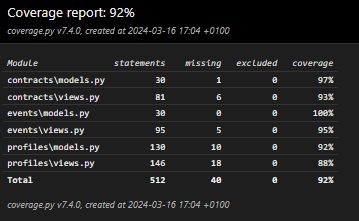
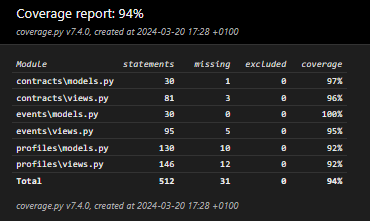
Mise à jour  Changes to be committed: 	modified:   .flake8 	modified:   README.md 	modified:   contracts/tests.py 	modified:   static/badges/coverage-badge.svg 	modified:   static/badges/tests-badge.svg 	modified:   static/img/coverage_screen.png

diff --git a/contracts/tests.py b/contracts/tests.py
@@ -294,6 +294,21 @@ class TestContractViewSet(TestCase):
         Client.objects.all().delete()
         Contract.objects.all().delete()
 
+    def test_returns_all_contracts_associated_to_user(self):
+        url = '/crm/contracts/contracts_list/'
+        response = self.client.get(url, HTTP_AUTHORIZATION=f'Bearer {self.access_token_sales_user1}')
+
+        # Vérifie si la réponse est 200 (OK)
+        self.assertEqual(response.status_code, status.HTTP_200_OK)
+
+        # Vérifie si la réponse contient les détails des contrats associés à l'utilisateur connecté
+        self.assertEqual(len(response.data), 3)
+        self.assertEqual(str(response.data[0]['total_amount']), str(self.contract_user1.total_amount))
+        self.assertEqual(str(response.data[1]['total_amount']), str(self.contract_user2.total_amount))
+        self.assertEqual(str(response.data[2]['total_amount']), str(self.contract_user3.total_amount))
+
+        print("Response Data:", response.data)
+
     def test_contracts_list(self):
         # Test de la vue contract_list
         url = '/crm/contracts/'

diff --git a/README.md b/README.md
@@ -302,8 +302,8 @@ $ SHOW COLUMNS FROM NomDeLaTable;
 ```bash   
 $ SELECT * FROM NomDeLaTable;
 
-#Cette requête est utilisée pour afficher la déclaration SQL complète nécessaire pour recréer une table existante, y compris tous ses indices, contraintes et autres propriétés.
-#Cette requête retourne un ensemble de résultats avec une colonne appelée "Create Table" qui contient la déclaration SQL complète de la table spécifiée.
+# Cette requête est utilisée pour afficher la déclaration SQL complète nécessaire pour recréer une table existante, y compris tous ses indices, contraintes et autres propriétés.
+# Cette requête retourne un ensemble de résultats avec une colonne appelée "Create Table" qui contient la déclaration SQL complète de la table spécifiée.
 $ SHOW CREATE TABLE NomDeLaTable;
 ```   
 
@@ -505,11 +505,11 @@ $ pytest
 ======================================= test session starts =======================================
 platform win32 -- Python 3.12.0, pytest-7.4.3, pluggy-1.3.0 -- C:\Epic Events\env\Scripts\python.exe
 cachedir: .pytest_cache
-django: version: 4.2.7, settings: EpicEvents.settings (from ini)  
+django: version: 4.2.7, settings: EpicEvents.settings (from ini)
 rootdir: C:\Epic Events
 configfile: setup.cfg
 plugins: cov-4.1.0, django-4.7.0, time-machine-2.13.0
-collected 67 items
+collected 70 items
 
 contracts/tests.py::TestContractsApp::test_contract_print_details PASSED                       [1%]
 contracts/tests.py::TestContractsApp::test_contract_str_representation PASSED                  [2%]
@@ -519,18 +519,19 @@ contracts/tests.py::TestContractViewSet::test_contract_details PASSED           
 contracts/tests.py::TestContractViewSet::test_contract_details_unauthorized_user PASSED        [8%]
 contracts/tests.py::TestContractViewSet::test_contracts_list PASSED                           [10%]
 contracts/tests.py::TestContractViewSet::test_create_contract PASSED                          [11%]
-contracts/tests.py::TestContractViewSet::test_create_contract_unauthorized_user PASSED        [13%]
+contracts/tests.py::TestContractViewSet::test_create_contract_unauthorized_user PASSED        [12%]
 contracts/tests.py::TestContractViewSet::test_destroy_contract PASSED                         [14%]
-contracts/tests.py::TestContractViewSet::test_destroy_contract_unauthorized_user PASSED       [16%]
+contracts/tests.py::TestContractViewSet::test_destroy_contract_unauthorized_user PASSED       [15%]
 contracts/tests.py::TestContractViewSet::test_filtered_contracts PASSED                       [17%]
-contracts/tests.py::TestContractViewSet::test_update_contract PASSED                          [19%]
-contracts/tests.py::TestContractViewSet::test_update_contract_unauthorized_user PASSED        [20%]
+contracts/tests.py::TestContractViewSet::test_returns_all_contracts_associated_to_user PASSED [18%]
+contracts/tests.py::TestContractViewSet::test_update_contract PASSED                          [20%]
+contracts/tests.py::TestContractViewSet::test_update_contract_unauthorized_user PASSED        [21%]
 events/tests.py::TestEventsApp::test_event_print_details PASSED                               [22%]
-events/tests.py::TestEventsApp::test_event_str_representation PASSED                          [23%]
+events/tests.py::TestEventsApp::test_event_str_representation PASSED                          [24%]
 events/tests.py::TestEventsApp::test_save_method PASSED                                       [25%]
-events/tests.py::TestEventViewSet::test_all_events_details PASSED                             [26%]
+events/tests.py::TestEventViewSet::test_all_events_details PASSED                             [27%]
 events/tests.py::TestEventViewSet::test_create_event PASSED                                   [28%]
-events/tests.py::TestEventViewSet::test_create_event_already_exists PASSED                    [29%]
+events/tests.py::TestEventViewSet::test_create_event_already_exists PASSED                    [30%]
 events/tests.py::TestEventViewSet::test_create_event_contract_not_signed PASSED               [31%]
 events/tests.py::TestEventViewSet::test_create_event_unauthorized_user PASSED                 [32%]
 events/tests.py::TestEventViewSet::test_destroy_event PASSED                                  [34%]
@@ -539,47 +540,49 @@ events/tests.py::TestEventViewSet::test_event_details PASSED                    
 events/tests.py::TestEventViewSet::test_event_details_unauthorized_user PASSED                [38%]
 events/tests.py::TestEventViewSet::test_events_list PASSED                                    [40%]
 events/tests.py::TestEventViewSet::test_events_without_support PASSED                         [41%]
-events/tests.py::TestEventViewSet::test_update_event PASSED                                   [43%]
+events/tests.py::TestEventViewSet::test_update_event PASSED                                   [42%]
 events/tests.py::TestEventViewSet::test_update_event_unauthorized_user PASSED                 [44%]
-profiles/tests.py::TestProfilesApp::test_add_client_to_group PASSED                           [46%]
+profiles/tests.py::TestProfilesApp::test_add_client_to_group PASSED                           [45%]
 profiles/tests.py::TestProfilesApp::test_assign_sales_contact PASSED                          [47%]
-profiles/tests.py::TestProfilesApp::test_create_client1 PASSED                                [49%]
+profiles/tests.py::TestProfilesApp::test_create_client1 PASSED                                [48%]
 profiles/tests.py::TestProfilesApp::test_create_client2 PASSED                                [50%]
-profiles/tests.py::TestProfilesApp::test_create_superuser PASSED                              [52%]
-profiles/tests.py::TestProfilesApp::test_create_superuser_invalid_attributes PASSED           [53%]
-profiles/tests.py::TestProfilesApp::test_create_user_management PASSED                        [55%]
-profiles/tests.py::TestProfilesApp::test_create_user_sales PASSED                             [56%]
-profiles/tests.py::TestProfilesApp::test_create_user_support PASSED                           [58%]
-profiles/tests.py::TestProfilesApp::test_create_user_with_empty_email PASSED                  [59%]
-profiles/tests.py::TestProfilesApp::test_has_module_perms PASSED                              [61%]
-profiles/tests.py::TestProfilesApp::test_has_perm PASSED                                      [62%]
-profiles/tests.py::TestProfilesApp::test_obtain_jwt_token_url PASSED                          [64%]
-profiles/tests.py::TestProfilesApp::test_refresh_jwt_token_url PASSED                         [65%]
-profiles/tests.py::TestProfilesApp::test_str_method_with_sales_contact PASSED                 [67%]
-profiles/tests.py::TestLoginViewSet::test_user_login_inactive_account PASSED                  [68%]
-profiles/tests.py::TestLoginViewSet::test_user_login_invalid_credentials PASSED               [70%]
-profiles/tests.py::TestLoginViewSet::test_user_login_successful PASSED                        [71%]
-profiles/tests.py::TestClientViewSet::test_all_clients_details PASSED                         [73%]
-profiles/tests.py::TestClientViewSet::test_client_details PASSED                              [74%]
-profiles/tests.py::TestClientViewSet::test_client_details_unauthorized_user PASSED            [76%]
-profiles/tests.py::TestClientViewSet::test_clients_list PASSED                                [77%]
-profiles/tests.py::TestClientViewSet::test_create_client PASSED                               [79%]
+profiles/tests.py::TestProfilesApp::test_create_superuser PASSED                              [51%]
+profiles/tests.py::TestProfilesApp::test_create_superuser_invalid_attributes PASSED           [52%]
+profiles/tests.py::TestProfilesApp::test_create_user_management PASSED                        [54%]
+profiles/tests.py::TestProfilesApp::test_create_user_sales PASSED                             [55%]
+profiles/tests.py::TestProfilesApp::test_create_user_support PASSED                           [57%]
+profiles/tests.py::TestProfilesApp::test_create_user_with_empty_email PASSED                  [58%]
+profiles/tests.py::TestProfilesApp::test_has_module_perms PASSED                              [60%]
+profiles/tests.py::TestProfilesApp::test_has_perm PASSED                                      [61%]
+profiles/tests.py::TestProfilesApp::test_obtain_jwt_token_url PASSED                          [62%]
+profiles/tests.py::TestProfilesApp::test_refresh_jwt_token_url PASSED                         [64%]
+profiles/tests.py::TestProfilesApp::test_str_method_with_sales_contact PASSED                 [65%]
+profiles/tests.py::TestLoginViewSet::test_user_login_inactive_account PASSED                  [67%]
+profiles/tests.py::TestLoginViewSet::test_user_login_invalid_credentials PASSED               [68%]
+profiles/tests.py::TestLoginViewSet::test_user_login_successful PASSED                        [70%]
+profiles/tests.py::TestClientViewSet::test_all_clients_details PASSED                         [71%]
+profiles/tests.py::TestClientViewSet::test_client_details PASSED                              [72%]
+profiles/tests.py::TestClientViewSet::test_client_details_unauthorized_user PASSED            [74%]
+profiles/tests.py::TestClientViewSet::test_clients_list PASSED                                [75%]
+profiles/tests.py::TestClientViewSet::test_clients_list_associated_to_user PASSED             [77%]
+profiles/tests.py::TestClientViewSet::test_create_client PASSED                               [78%]
 profiles/tests.py::TestClientViewSet::test_create_clients_unauthorized_user PASSED            [80%]
-profiles/tests.py::TestClientViewSet::test_destroy_client PASSED                              [82%]
-profiles/tests.py::TestClientViewSet::test_destroy_client_unauthorized_user PASSED            [83%]
-profiles/tests.py::TestClientViewSet::test_update_client PASSED                               [85%]
-profiles/tests.py::TestClientViewSet::test_update_client_unauthorized_user PASSED             [86%]
-profiles/tests.py::TestUserViewSet::test_all_users_details PASSED                             [88%]
-profiles/tests.py::TestUserViewSet::test_create_user PASSED                                   [89%]
-profiles/tests.py::TestUserViewSet::test_create_user_unauthorized_user PASSED                 [91%]
-profiles/tests.py::TestUserViewSet::test_destroy_user PASSED                                  [92%]
-profiles/tests.py::TestUserViewSet::test_destroy_user_unauthorized_user PASSED                [94%]
+profiles/tests.py::TestClientViewSet::test_destroy_client PASSED                              [81%]
+profiles/tests.py::TestClientViewSet::test_destroy_client_unauthorized_user PASSED            [82%]
+profiles/tests.py::TestClientViewSet::test_update_client PASSED                               [84%]
+profiles/tests.py::TestClientViewSet::test_update_client_unauthorized_user PASSED             [85%]
+profiles/tests.py::TestUserViewSet::test_all_users_details PASSED                             [87%]
+profiles/tests.py::TestUserViewSet::test_create_user PASSED                                   [88%]
+profiles/tests.py::TestUserViewSet::test_create_user_unauthorized_user PASSED                 [90%]
+profiles/tests.py::TestUserViewSet::test_destroy_user PASSED                                  [91%]
+profiles/tests.py::TestUserViewSet::test_destroy_user_unauthorized_user PASSED                [92%]
+profiles/tests.py::TestUserViewSet::test_returns_details_specific_user PASSED                 [94%]
 profiles/tests.py::TestUserViewSet::test_update_user PASSED                                   [95%]
 profiles/tests.py::TestUserViewSet::test_update_user_unauthorized_user PASSED                 [97%]
 profiles/tests.py::TestUserViewSet::test_user_details PASSED                                  [98%]
 profiles/tests.py::TestUserViewSet::test_users_list PASSED                                   [100%]
 
-================================= 67 passed in 277.36s (0:04:37) ==================================
+================================= 70 passed in 312.21s (0:05:12) ==================================
 ```   
 - Pour afficher plus d'informations sur les tests lors de leurs exécutions vous pouvez utiliser la commande :   
 
@@ -607,19 +610,19 @@ $ pytest --cov=.
 Name                  Stmts   Miss  Cover
 -----------------------------------------
 contracts\models.py      30      1    97%
-contracts\views.py       79      5    94%
+contracts\views.py       81      3    96%
 events\models.py         30      0   100%
-events\views.py          88      5    94%
+events\views.py          95      5    95%
 profiles\models.py      130     10    92%
-profiles\views.py       146     18    88%
+profiles\views.py       146     12    94%
 -----------------------------------------
-TOTAL                   503     39    92%
+TOTAL                   512     31    94%
 
 
-=================== 67 passed in 284.05s (0:04:44) ====================
+=================== 70 passed in 284.05s (0:04:44) ====================
 ```   
 
-Renvoie : **92%** de couverture de code.   
+Renvoie : **94%** de couverture de code.   
 
 - Pour afficher un rapport de couverture avec plus de détails.   
 
